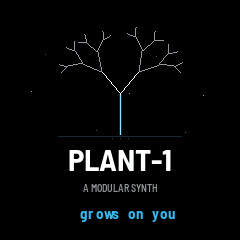
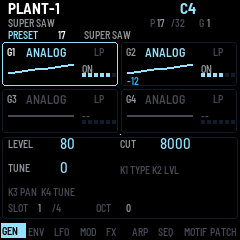
M16: GEN 页改为 2x2 模块卡片（编号/引擎/滤波/波形/开关/电平/移调）

diff --git a/app/app.c b/app/app.c
@@ -1408,26 +1408,37 @@ static void draw(void)
     }
     cv_blit(0, 0);
 
-    /* the four slots: a card each, with a segmented level */
-    cv_begin(240, 80, C_BLACK);
+    /* the four slots as a 2 x 2 grid of module cards */
+    cv_begin(240, 94, C_BLACK);
     for (i = 0; i < NGEN; i++) {
         gen_t *G = &P.gen[i];
-        int32_t y = i * 20;
+        int32_t cx = (i & 1) ? 121 : 2;
+        int32_t cy = (i >> 1) ? 49 : 2;
         int32_t k, lit;
-        draw_card(2, y + 1, 236, 19, i == selected ? C_DIM : RGB(20, 28, 36));
-        draw_slot_wave(8, y + 5, 36, 11, i, G->on ? C_HI : C_DIM);
-        cv_text(50, y + 3, &FONT_XS, GEN_NAME[G->type], G->on ? (G->ftype ? C_HI : C_GRAY) : C_DIM);
-        if (G->ftype) cv_text(108, y + 4, &FONT_T, FTYPE_NAME[G->ftype], C_DIM);
-        lit = G->on ? (int32_t)(G->level * 8.0f + 0.5f) : 0;
-        for (k = 0; k < 8; k++) {
-            cv_rect(150 + k * 10, y + 7, 7, 5, k < lit ? (G->on ? C_HI : C_DIM) : RGB(22, 31, 40));
+        char tag[8];
+        draw_card(cx, cy, 116, 44, i == selected ? C_HI : RGB(22, 31, 40));
+        tag[0] = 'G';
+        tag[1] = (char)('1' + i);
+        tag[2] = 0;
+        cv_text(cx + 5, cy + 4, &FONT_T, tag, i == selected ? C_WHITE : C_GRAY);
+        cv_text(cx + 24, cy + 3, &FONT_XS, GEN_NAME[G->type], G->on ? C_HI : C_DIM);
+        if (G->ftype) cv_text(cx + 92, cy + 4, &FONT_T, FTYPE_NAME[G->ftype], C_DIM);
+        draw_slot_wave(cx + 6, cy + 20, 66, 12, i, G->on ? C_HI : C_DIM);
+        lit = G->on ? (int32_t)(G->level * 6.0f + 0.5f) : 0;
+        for (k = 0; k < 6; k++)
+            cv_rect(cx + 80 + k * 6, cy + 31, 4, 4, k < lit ? (G->on ? C_HI : C_DIM) : RGB(22, 31, 40));
+        cv_text(cx + 80, cy + 21, &FONT_T, G->on ? "ON" : "--", G->on ? C_GRAY : C_DIM);
+        if (G->tune) {
+            char tn[8];
+            num_text(tn, G->tune);
+            cv_text(cx + 6, cy + 33, &FONT_T, tn, C_AMB);
         }
     }
-    cv_blit(0, 46);
+    cv_blit(0, 40);
 
     /* the page */
-    cv_begin(240, 94, C_BLACK);
-    draw_card(2, 1, 236, 92, RGB(20, 28, 36));
+    cv_begin(240, 84, C_BLACK);
+    draw_card(2, 1, 236, 82, RGB(20, 28, 36));
     switch (page) {
     case PAGE_GEN:
         cv_text(8, 2, &FONT_T, "LEVEL", C_GRAY);
@@ -1442,31 +1453,31 @@ static void draw(void)
         cv_text(120, 28, &FONT_T, "K1 TYPE K2 LVL", C_DIM);
         cv_text(8, 50, &FONT_T, "K3 PAN  K4 TUNE", C_DIM);
         num_text(v, selected + 1);
-        cv_text(8, 72, &FONT_T, "SLOT", C_DIM);
-        cv_text(38, 72, &FONT_T, v, C_GRAY);
-        cv_text(52, 72, &FONT_T, "/4", C_DIM);
+        cv_text(8, 66, &FONT_T, "SLOT", C_DIM);
+        cv_text(38, 66, &FONT_T, v, C_GRAY);
+        cv_text(52, 66, &FONT_T, "/4", C_DIM);
         num_text(v, octave);
-        cv_text(96, 72, &FONT_T, "OCT", C_DIM);
-        cv_text(126, 72, &FONT_T, v, C_GRAY);
+        cv_text(96, 66, &FONT_T, "OCT", C_DIM);
+        cv_text(126, 66, &FONT_T, v, C_GRAY);
         break;
     case PAGE_ENV: {
         float ea = env_sel ? P.e2a : P.a_ms, ed = env_sel ? P.e2d : P.d_ms;
         float es = env_sel ? P.e2s : P.s, er = env_sel ? P.e2r : P.r_ms;
         draw_env_graph(8, 2, 224, 44, ea, ed, es, er);
         cv_text(8, 50, &FONT_T, env_sel ? "MOD ENV" : "AMP ENV", C_WHITE);
-        cv_text(8, 64, &FONT_T, "A", C_GRAY);
+        cv_text(8, 60, &FONT_T, "A", C_GRAY);
         num_text(v, (int32_t)ea);
-        cv_text(20, 64, &FONT_T, v, C_HI);
-        cv_text(62, 64, &FONT_T, "D", C_GRAY);
+        cv_text(20, 60, &FONT_T, v, C_HI);
+        cv_text(62, 60, &FONT_T, "D", C_GRAY);
         num_text(v, (int32_t)ed);
-        cv_text(74, 64, &FONT_T, v, C_HI);
-        cv_text(118, 64, &FONT_T, "S", C_GRAY);
+        cv_text(74, 60, &FONT_T, v, C_HI);
+        cv_text(118, 60, &FONT_T, "S", C_GRAY);
         num_text(v, (int32_t)(es * 100.0f));
-        cv_text(130, 64, &FONT_T, v, C_HI);
-        cv_text(176, 64, &FONT_T, "R", C_GRAY);
+        cv_text(130, 60, &FONT_T, v, C_HI);
+        cv_text(176, 60, &FONT_T, "R", C_GRAY);
         num_text(v, (int32_t)er);
-        cv_text(188, 64, &FONT_T, v, C_HI);
-        cv_text(8, 82, &FONT_T, "ENV=AMP/MOD  K1-K4 A D S R", C_DIM);
+        cv_text(188, 60, &FONT_T, v, C_HI);
+        cv_text(8, 74, &FONT_T, "ENV=AMP/MOD  K1-K4 A D S R", C_DIM);
         break;
     }
     case PAGE_LFO:
@@ -1479,7 +1490,7 @@ static void draw(void)
         num_text(v, (int32_t)((lfo_sel ? P.lfo2_amt : P.lfo_amt) * 100.0f));
         cv_text(186, 44, &FONT_S, v, C_HI);
         cv_text(8, 64, &FONT_T, lfo_sel ? "LFO2 -> MOD MATRIX" : "LFO1 -> CUTOFF/TREM", C_GRAY);
-        cv_text(8, 82, &FONT_T, "LFO=LFO1/2  K1 SHAPE K2 RATE K3 AMT", C_DIM);
+        cv_text(8, 74, &FONT_T, "LFO=LFO1/2  K1 SHAPE K2 RATE K3 AMT", C_DIM);
         break;
     case PAGE_MOD: {
         int32_t y;
@@ -1499,7 +1510,7 @@ static void draw(void)
                 cv_rect(140, y + 5, (int32_t)(fm_clampf(fm_fabsf(R->amt), 0.0f, 1.0f) * 80.0f), 3, C_GRAY);
         }
         cv_text(8, 64, &FONT_T, "K1 ROUTE K2 SRC K3 DST K4 DEPTH", C_DIM);
-        cv_text(8, 80, &FONT_T, "GLO=toggle route", C_DIM);
+        cv_text(8, 72, &FONT_T, "GLO=toggle route", C_DIM);
         break;
     }
     case PAGE_ARP:
@@ -1517,7 +1528,7 @@ static void draw(void)
         cv_text(8, 62, &FONT_T, "TEMPO", C_GRAY);
         num_text(v, P.bpm);
         cv_text(80, 60, &FONT_S, v, C_HI);
-        cv_text(8, 80, &FONT_T, "K1 PAT K2 RATE K3 OCT K4 GATE", C_DIM);
+        cv_text(8, 72, &FONT_T, "K1 PAT K2 RATE K3 OCT K4 GATE", C_DIM);
         break;
     case PAGE_MOTIF:
         if (P.motif_mode == 0) {
@@ -1565,9 +1576,9 @@ static void draw(void)
             int32_t x = 8 + i * 14;
             int32_t h = P.seq[i].on ? 6 + (P.seq[i].note % 12) : 2;
             if (h > 16) h = 16;
-            cv_rect(x, 76 - h, 10, h, P.seq[i].on ? C_HI : RGB(22, 31, 40));
+            cv_rect(x, 70 - h, 10, h, P.seq[i].on ? C_HI : RGB(22, 31, 40));
         }
-        cv_text(8, 84, &FONT_T, P.motif_mode == 0 ? "K1 STYLE K2 DENS K3 SCALE K4 ROLL" : P.motif_mode == 1 ? "K1 STEPS K2 HITS K3 ROT K4 WRITE" : "K1 LEN K2 SWING K3 KEY K4 EVOLVE", C_DIM);
+        cv_text(8, 76, &FONT_T, P.motif_mode == 0 ? "K1 STYLE K2 DENS K3 SCALE K4 ROLL" : P.motif_mode == 1 ? "K1 STEPS K2 HITS K3 ROT K4 WRITE" : "K1 LEN K2 SWING K3 KEY K4 EVOLVE", C_DIM);
         break;
     case PAGE_SEQ:
         for (i = 0; i < 16; i++) {
@@ -1621,7 +1632,7 @@ static void draw(void)
         cv_text(58, 46, &FONT_T, "/4", C_DIM);
         cv_text(78, 46, &FONT_T, BANK_NAME[preset_index / 8], C_WHITE);
         cv_text(8, 64, &FONT_T, "K1 PRESET K2 SLOT K3 BANK", C_DIM);
-        cv_text(8, 82, &FONT_T, slot_index < NSLOT && bank.slot[slot_index].used ? "SAVE overwrite" : "SAVE store", C_DIM);
+        cv_text(8, 78, &FONT_T, slot_index < NSLOT && bank.slot[slot_index].used ? "SAVE overwrite" : "SAVE store", C_DIM);
         break;
     }
     if (wipe_on) {
@@ -1629,15 +1640,15 @@ static void draw(void)
         if (dt > 160u) wipe_on = 0;
         else cv_rect((int32_t)((float)dt / 160.0f * 236.0f), 2, 2, 90, C_HI);
     }
-    cv_blit(0, 126);
+    cv_blit(0, 136);
 
     if (osd_kind && plat_ms() < osd_until) {
-        cv_begin(240, 16, C_BLACK);
+        cv_begin(240, 12, C_BLACK);
         if (osd_kind == 1) {
             num_text(v, preset_index + 1);
-            cv_text(8, 3, &FONT_T, "PRESET", C_HI);
-            cv_text(58, 3, &FONT_T, v, C_WHITE);
-            cv_text(84, 3, &FONT_T, PRESET_NAME[preset_index], C_GRAY);
+            cv_text(8, 1, &FONT_T, "PRESET", C_HI);
+            cv_text(58, 1, &FONT_T, v, C_WHITE);
+            cv_text(84, 1, &FONT_T, PRESET_NAME[preset_index], C_GRAY);
         } else if (osd_kind == 2) {
             num_text(v, selected + 1);
             cv_text(8, 3, &FONT_T, "SLOT", C_HI);

diff --git a/app/app.h b/app/app.h
@@ -5,7 +5,7 @@
 #include <stdint.h>
 #include "plat.h"
 
-#define APP_NAME "PLANT1M15"
+#define APP_NAME "PLANT1M16"
 #define APP_SPLASH_RGB RGB(56, 189, 248)
 #define APP_BLOCK 256u
 

diff --git a/README.md b/README.md
@@ -4,6 +4,13 @@ The FM-1 side of [PLANT-1](https://github.com/kong8la/plant1), the browser synth
 This repository builds a real `.fwsc` package you can flash with
 [the PLANT-1 flash page](https://kong8la.com/plant1/flash/).
 
+## M16: the generator grid
+
+![The GEN page as a 2 x 2 grid of cards](docs/m16.png)
+
+The four generator slots are module cards in a 2 x 2 grid, Phase Plant style: each shows its number,
+engine, filter, its waveform, on/off, a six-block level and its transpose. The selected card takes the
+accent. The page below holds the selected card's values (level, cutoff, tune, slot, octave).
 ## M15: the boot animation
 
 ![The boot screen](docs/m15.png)
